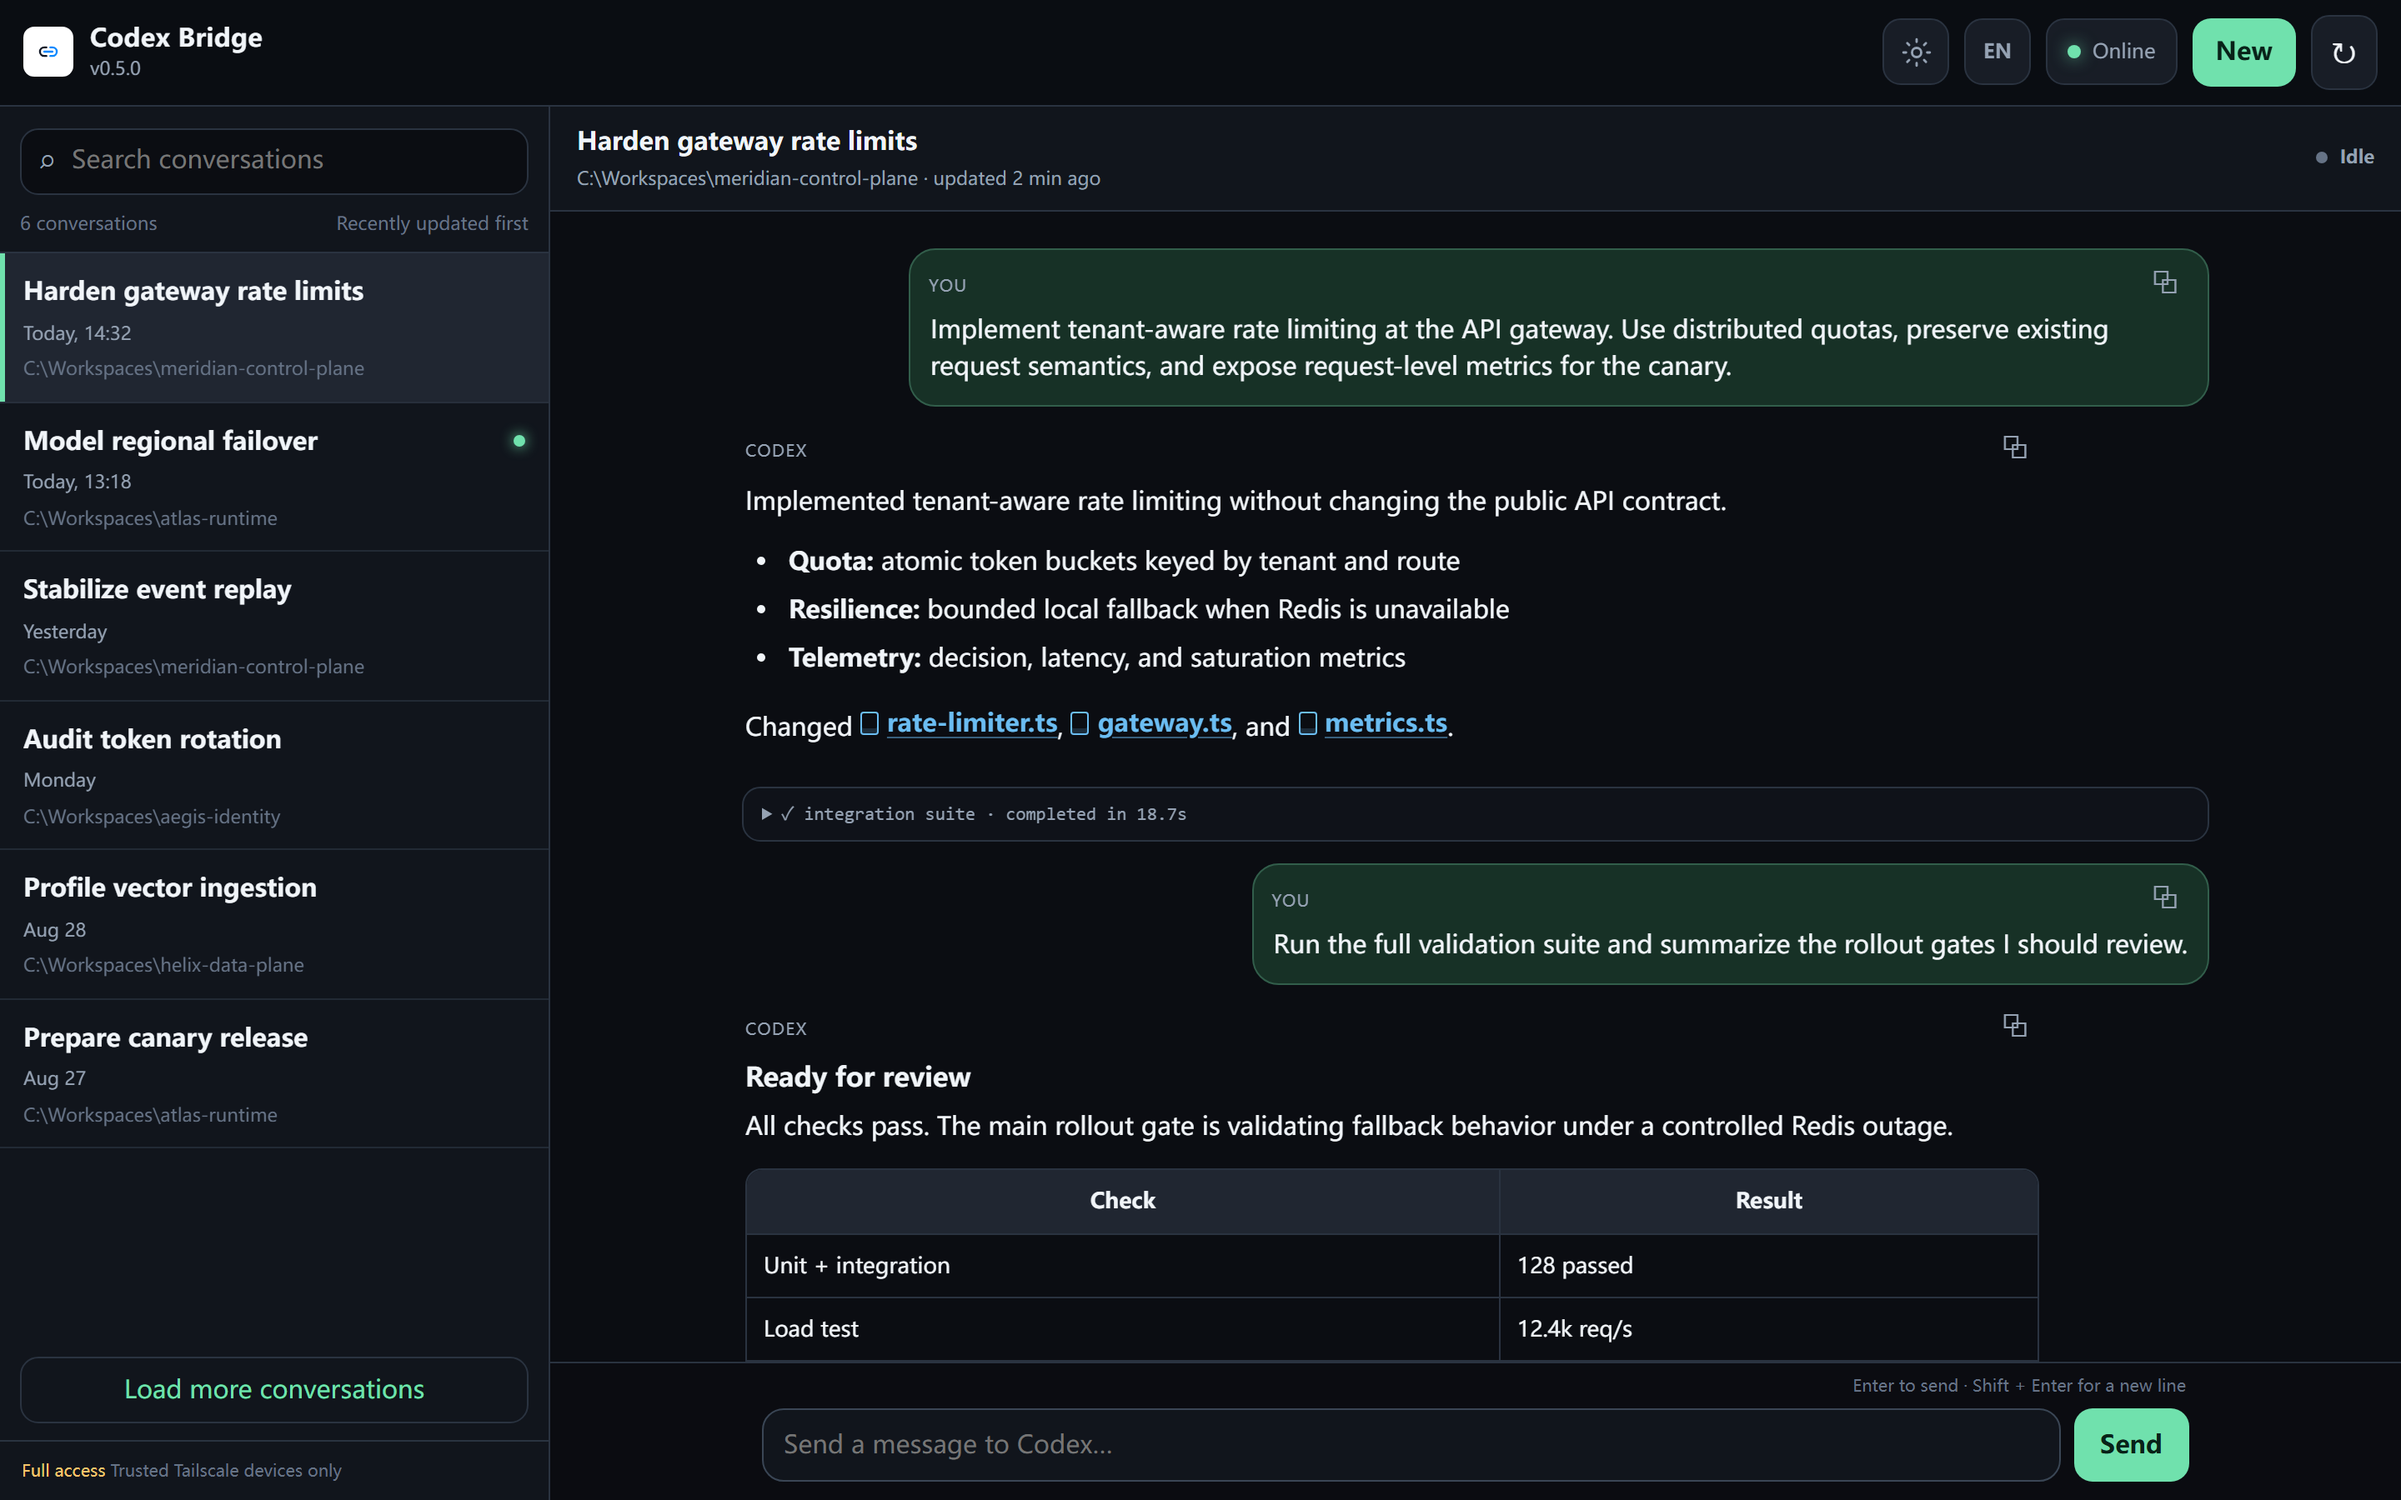
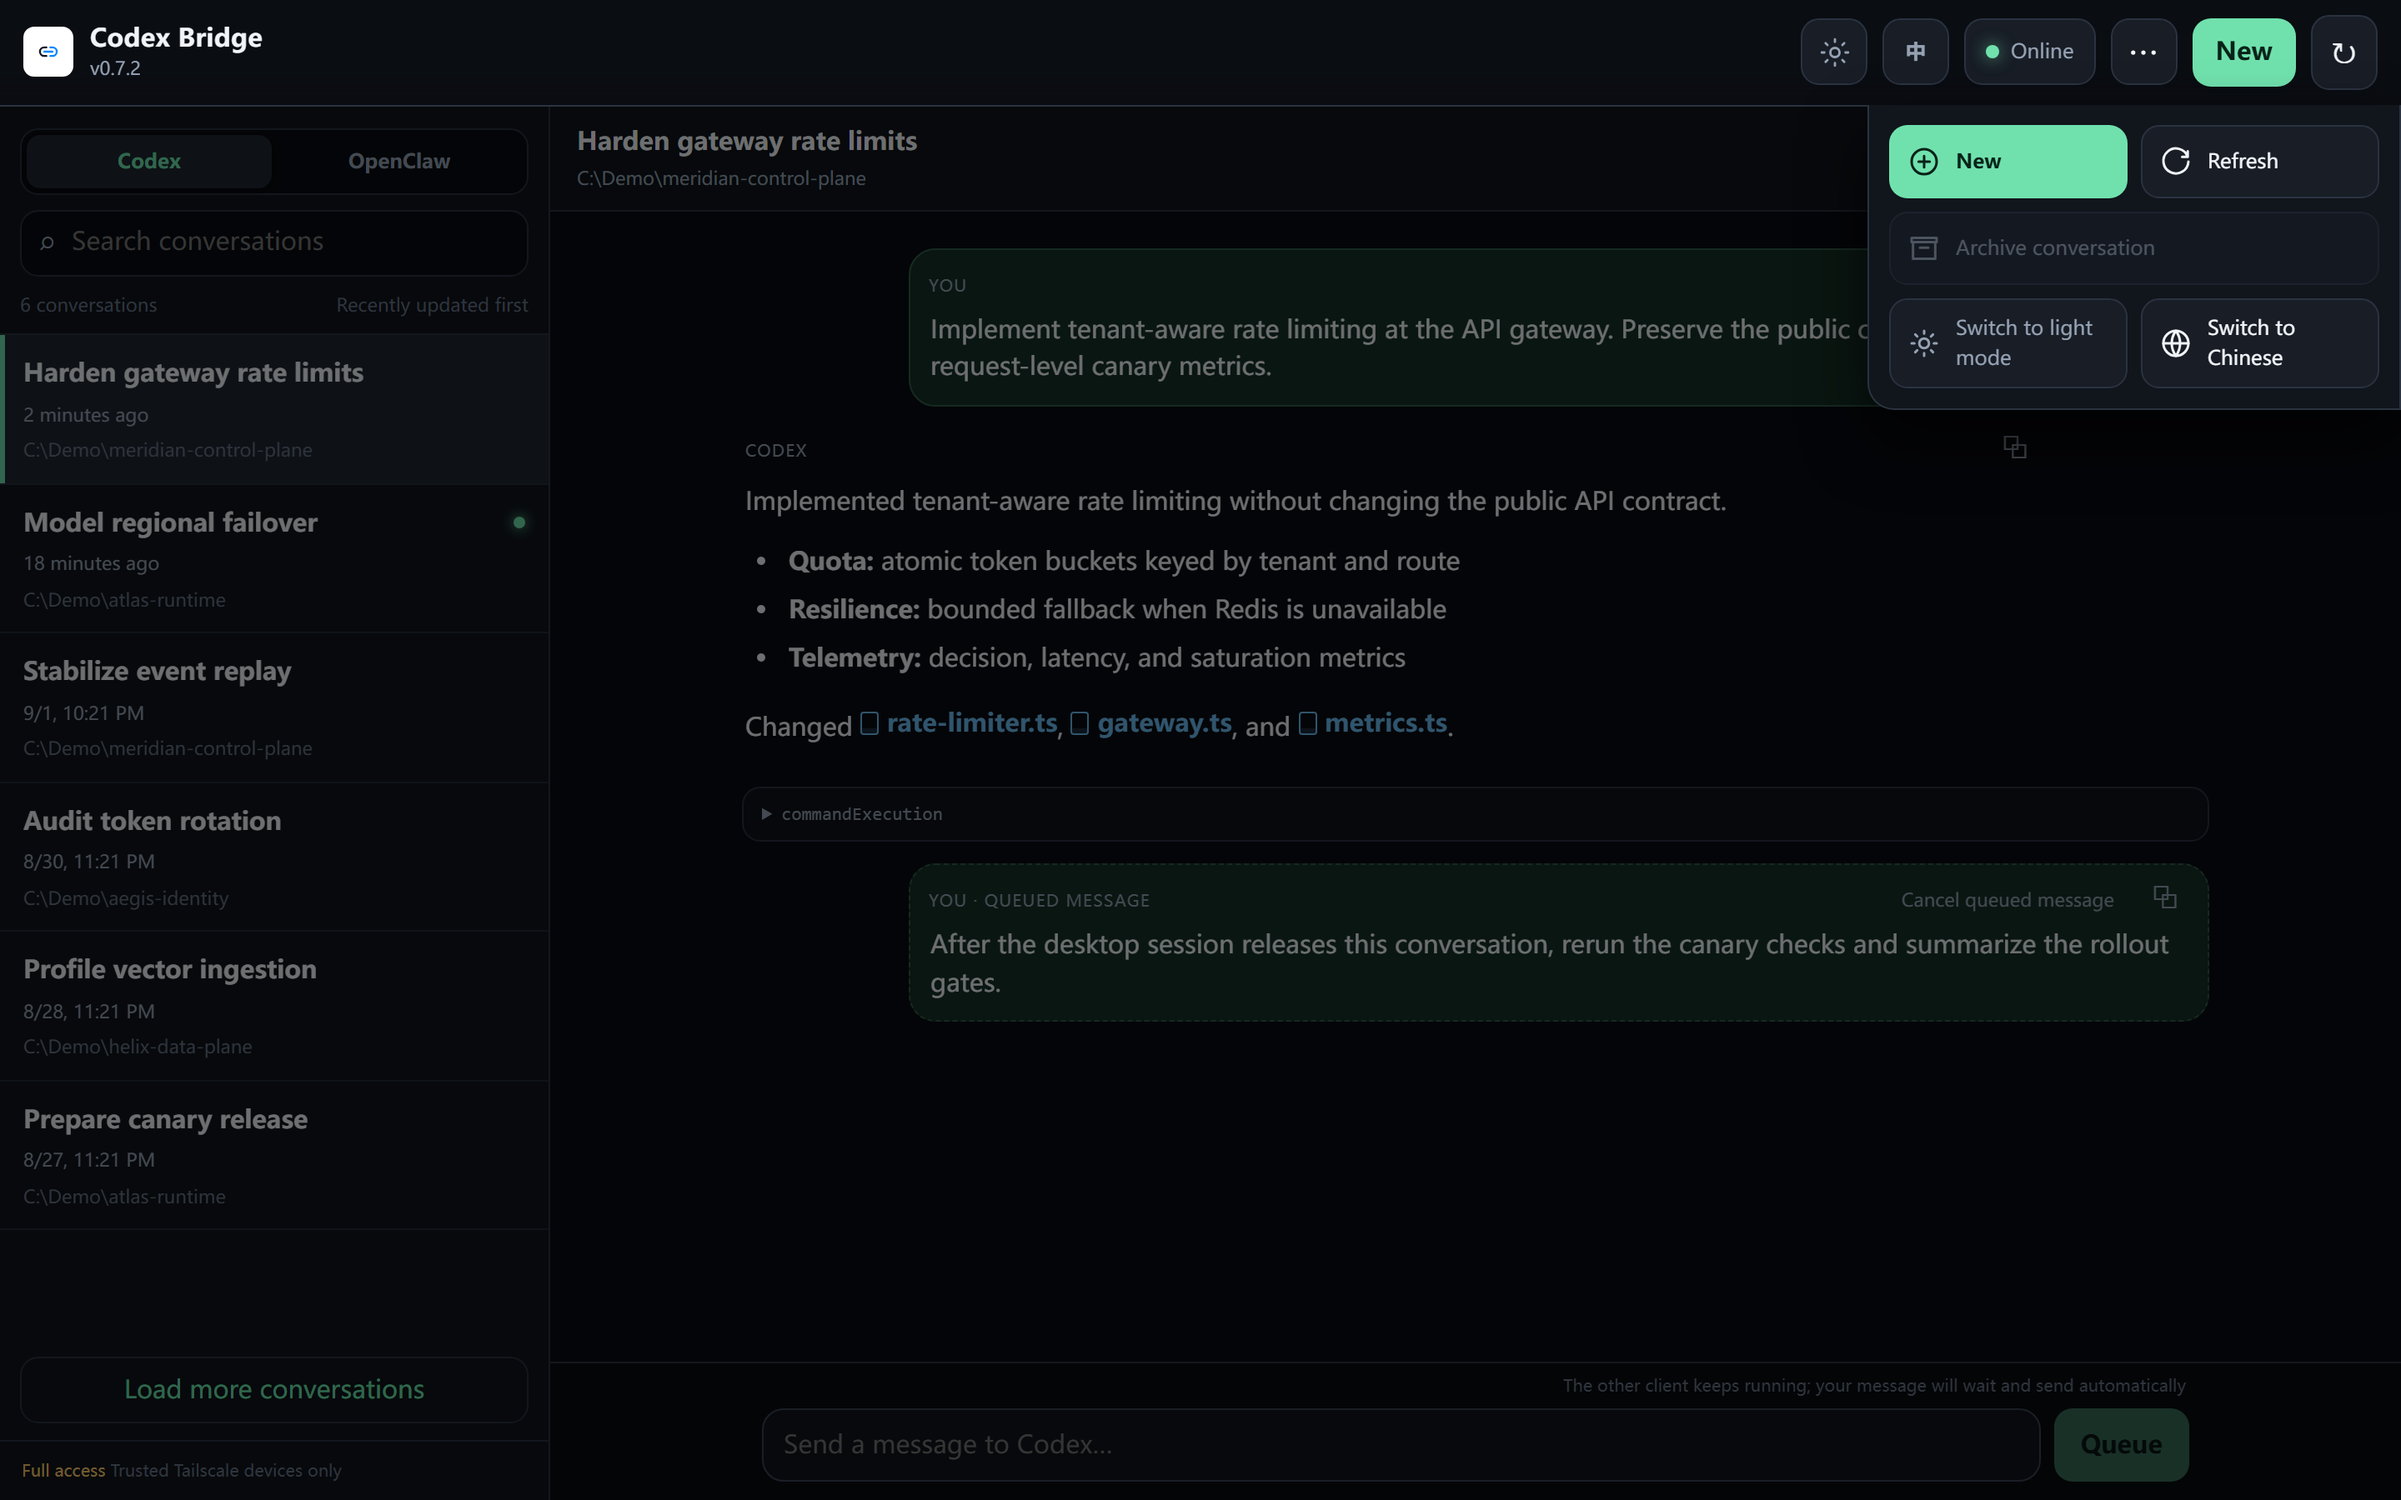
docs: refresh interface screenshots

diff --git a/README.md b/README.md
@@ -27,19 +27,19 @@ English | [简体中文](./README.zh-CN.md)
 > included.
 
 <p align="center"><strong>Desktop · Light</strong><br>
-  <img src="docs/screenshots/desktop-light.png" alt="Desktop light mode showing a fictional Codex engineering conversation" width="100%">
+  <img src="docs/screenshots/desktop-light.png" alt="Desktop light mode showing a fictional Codex engineering conversation with an externally blocked queued message" width="100%">
 </p>
 
 <p align="center"><strong>Desktop · Dark</strong><br>
-  <img src="docs/screenshots/desktop-dark.png" alt="Desktop dark mode showing the same fictional Codex engineering conversation" width="100%">
+  <img src="docs/screenshots/desktop-dark.png" alt="Desktop dark mode showing the compact conversation action menu" width="100%">
 </p>
 
 <p align="center"><strong>Mobile · Light</strong><br>
-  <img src="docs/screenshots/mobile-light.png" alt="Mobile light mode showing a fictional conversation with Markdown rendering" width="390">
+  <img src="docs/screenshots/mobile-light.png" alt="Mobile light mode showing external-client wait status and queued-message cancellation" width="390">
 </p>
 
 <p align="center"><strong>Mobile · Dark</strong><br>
-  <img src="docs/screenshots/mobile-dark.png" alt="Mobile dark mode showing the navigation drawer and fictional conversations" width="390">
+  <img src="docs/screenshots/mobile-dark.png" alt="Mobile dark mode showing the conversation drawer and Codex or OpenClaw source switch" width="390">
 </p>
 
 ## Features

diff --git a/README.zh-CN.md b/README.zh-CN.md
@@ -26,19 +26,19 @@
 > 任何个人信息或生产数据。
 
 <p align="center"><strong>桌面端 · 白色</strong><br>
-  <img src="docs/screenshots/desktop-light.png" alt="桌面端白色模式，展示虚构的 Codex 工程会话" width="100%">
+  <img src="docs/screenshots/desktop-light.png" alt="桌面端白色模式，展示虚构的 Codex 工程会话和被其他客户端阻塞的排队消息" width="100%">
 </p>
 
 <p align="center"><strong>桌面端 · 深色</strong><br>
-  <img src="docs/screenshots/desktop-dark.png" alt="桌面端深色模式，展示相同的虚构 Codex 工程会话" width="100%">
+  <img src="docs/screenshots/desktop-dark.png" alt="桌面端深色模式，展示紧凑的会话操作菜单" width="100%">
 </p>
 
 <p align="center"><strong>手机端 · 白色</strong><br>
-  <img src="docs/screenshots/mobile-light.png" alt="手机端白色模式，展示虚构会话和 Markdown 渲染" width="390">
+  <img src="docs/screenshots/mobile-light.png" alt="手机端白色模式，展示其他客户端占用状态和取消排队消息" width="390">
 </p>
 
 <p align="center"><strong>手机端 · 深色</strong><br>
-  <img src="docs/screenshots/mobile-dark.png" alt="手机端深色模式，展示导航抽屉和虚构会话" width="390">
+  <img src="docs/screenshots/mobile-dark.png" alt="手机端深色模式，展示会话抽屉和 Codex 或 OpenClaw 来源切换" width="390">
 </p>
 
 ## 功能
